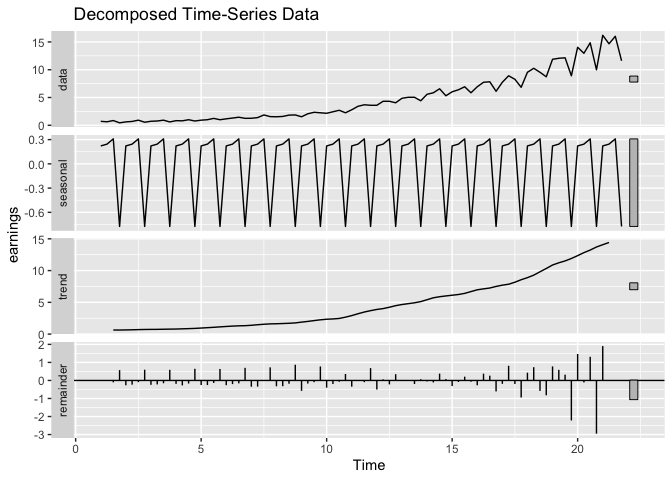
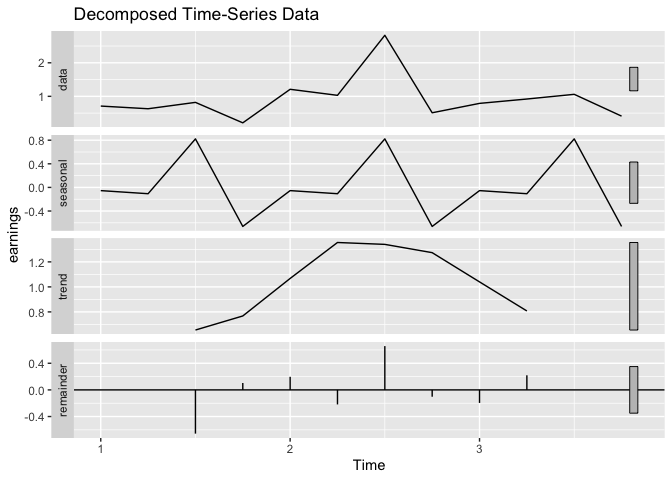
change examples in the README

diff --git a/README.md b/README.md
@@ -110,17 +110,14 @@ scatter_express(df = iris, xval = "Sepal.Width", yval = "Petal.Length")
 Plots a time series and its decomposed components
 
 ``` r
-ts_plot("extdata/example_data.csv", "earnings", 4)
-#> Parsed with column specification:
-#> cols(
-#>   date = col_character(),
-#>   earnings = col_double()
-#> )
-#> Parsed with column specification:
-#> cols(
-#>   date = col_character(),
-#>   earnings = col_double()
-#> )
+time <- c("1950 Q1", "1950 Q2", "1950 Q3", "1950 Q4", 
+          "1951 Q1", "1951 Q2", "1951 Q3", "1951 Q4",
+          "1952 Q1", "1952 Q2", "1952 Q3", "1952 Q4")
+earnings <- c(0.71, 0.63, 0.82, 0.21, 
+              1.21, 1.03, 2.82, 0.51,
+              0.79, 0.92, 1.06, 0.41)
+ts_data <- tibble::tibble(time, earnings)
+ts_plot(data=ts_data, col="earnings", frequency=4)
 #> Registered S3 method overwritten by 'quantmod':
 #>   method            from
 #>   as.zoo.data.frame zoo
